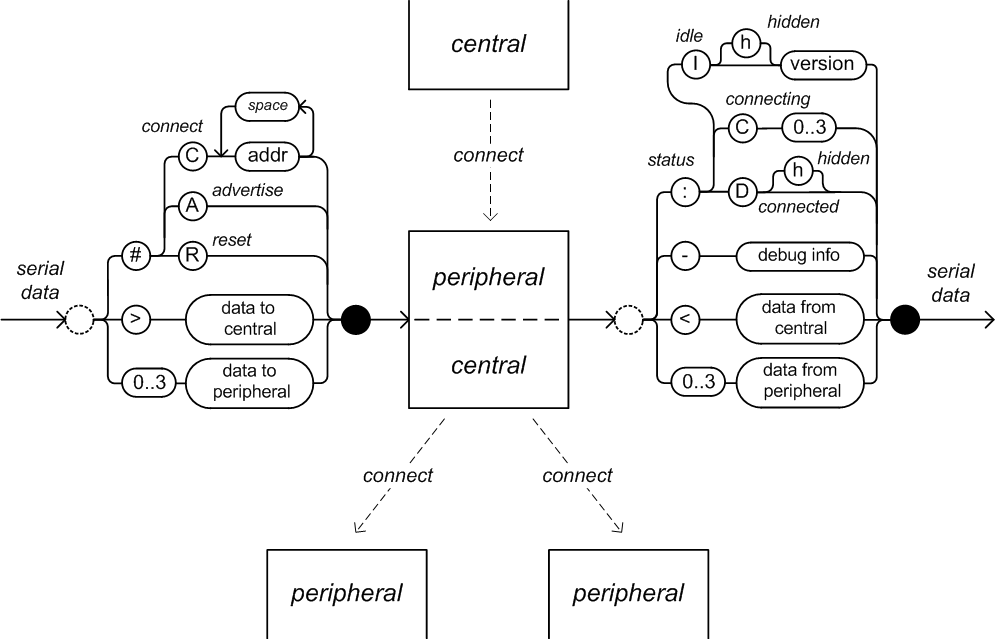
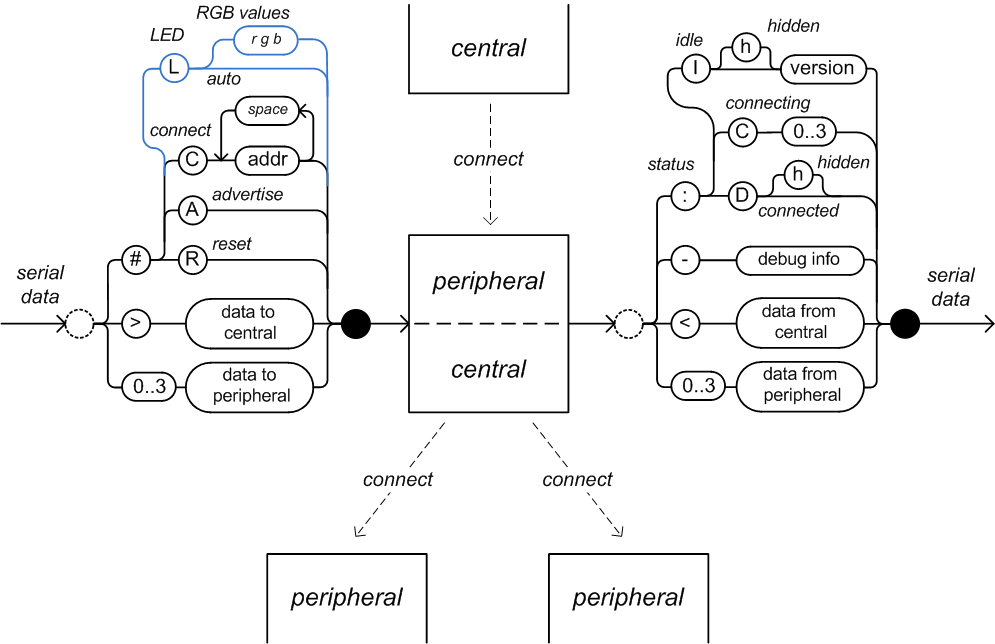
LED control API

diff --git a/python/ble_multi_adapter.py b/python/ble_multi_adapter.py
@@ -323,6 +323,14 @@ class MutliAdapter(AdapterConnection):
 		if data is not None:
 			self.on_peer_msg(idx, data)
 
+	def led_set_rgb(self, r, g, b):
+		"""Manually control the neo-pixel LED on board"""
+		self.submit_msg(b'#L%u %u %u' % (r, g, b))
+
+	def led_set_auto(self):
+		"""Switch to auto control of the neo-pixel LED on board"""
+		self.submit_msg(b'#L')
+
 	def on_idle(self, hidden, version):
 		pass
 
@@ -365,6 +373,7 @@ class SimpleAdapter(AdapterConnection):
 
 
 def find_port():
+	"""Find connected controller by USB device VID:PID"""
 	for p in list_ports.comports():
 		if p.vid == 0x303A and p.pid == 0x1001:
 			return p.device
@@ -372,6 +381,13 @@ def find_port():
 
 
 if __name__ == '__main__':
+	#
+	# The following example illustrates sending / receiving
+	# messages to / from connected central and controlling
+	# the on-board neo-pixel LED.
+	# One can use https://enspectr.github.io/ble-term/?echo
+	# to receive those messages and echo them back
+	#
 	class TestAdapter(MutliAdapter):
 		def __init__(self, port):
 			super().__init__(port)
@@ -391,14 +407,27 @@ if __name__ == '__main__':
 		sys.exit(-1)
 
 	sn, msg_interval = 0, .2
+	blink_interval, blink_duration = 5, .5
+	blink_rgb = (128, 32, 64)
 	with TestAdapter(port) as ad:
 		ad.reset()
-		next_ts = time.time() + msg_interval
+		next_msg_ts = time.time() + msg_interval
+		next_blink_ts = time.time() + msg_interval
+		blink_off_ts = None
 		while True:
 			ad.communicate()
 			ts = time.time()
-			if ts > next_ts:
+			if ts > next_msg_ts:
+				# send message to connected central
 				sn += 1
 				ad.send_data(b'message #%d' % sn)
-				next_ts = ts + msg_interval
-
+				next_msg_ts = ts + msg_interval
+			if ts > next_blink_ts:
+				# blink on
+				ad.led_set_rgb(*blink_rgb)
+				blink_off_ts  = ts + blink_duration
+				next_blink_ts = ts + blink_interval
+			elif blink_off_ts and ts > blink_off_ts:
+				# blink off
+				ad.led_set_auto()
+				blink_off_ts = None

diff --git a/ble_uart_mx/config/peripheral.h b/ble_uart_mx/config/peripheral.h
@@ -36,7 +36,7 @@
 // #define ESP32_USB_KEY
 //
 // Define if board has serially controlled RGB led (WS2812)
-// #define NEO_PIXEL_PIN 10
+#define NEO_PIXEL_PIN 10
 
 #ifdef NEO_PIXEL_PIN
 // Allow user to control LED
@@ -79,7 +79,7 @@
 // Though its more convenient while entering commands from terminal,
 // the '\1' '\0' message delimiters are more robust. Undefine the following
 // to use them by default.
-#define UART_END '\n'
+// #define UART_END '\n'
 #endif
 
 #define UART_BAUD_RATE 115200
@@ -111,17 +111,16 @@
 #define TX_BOOST
 
 // If defined creating connections to other peripherals will be disabled
-// #define PASSIVE_ONLY
+#define PASSIVE_ONLY
 
 #ifndef PASSIVE_ONLY
 // If AUTOCONNECT is defined it will connect on startup to the predefined set of peers.
 // The host commands will be disabled. One may use AUTOCONNECT with no target peers
 // to disable creating connections.
-#define AUTOCONNECT
+// #define AUTOCONNECT
 #ifdef AUTOCONNECT
 // Peer device address to connect to
-#define PEER_ADDR    "DC:54:75:EE:0C:95"
-//#define PEER_ADDR    "EC:DA:3B:BB:CE:02"
+#define PEER_ADDR    "EC:DA:3B:BB:CE:02"
 //#define PEER_ADDR1   "34:B7:DA:F6:44:B2"
 //#define PEER_ADDR2   "D8:3B:DA:13:0F:7A"
 //#define PEER_ADDR3   "34:B7:DA:FB:58:E2"
@@ -150,4 +149,4 @@
 #define MAX_BURST 1
 
 // If defined echo all data received back to sender (for testing)
-#define ECHO
+// #define ECHO

diff --git a/ble_uart_mx/user_config.h b/ble_uart_mx/user_config.h
@@ -1,8 +1,11 @@
 #pragma once
 
 // Here you can include the configuration of your choice
-#include "config/default.h"
+//#include "config/default.h"
 // .. for example
+
+// Peripheral device
+#include "config/peripheral.h"
 
 // The following pair of config files is meant to be used for
 // creating point to point link with automatic connect.

diff --git a/ble_uart_mx/config/default.h b/ble_uart_mx/config/default.h
@@ -37,6 +37,11 @@
 //
 // Define if board has serially controlled RGB led (WS2812)
 // #define NEO_PIXEL_PIN 10
+
+#ifdef NEO_PIXEL_PIN
+// Allow user to control LED
+#define LED_CONTROL_API
+#endif
 //
 // Connected LED parameters
 #ifndef NEO_PIXEL_PIN

diff --git a/ble_uart_mx/config/echo.h b/ble_uart_mx/config/echo.h
@@ -37,6 +37,11 @@
 //
 // Define if board has serially controlled RGB led (WS2812)
 // #define NEO_PIXEL_PIN 10
+
+#ifdef NEO_PIXEL_PIN
+// Allow user to control LED
+#define LED_CONTROL_API
+#endif
 //
 // Connected LED parameters
 #ifndef NEO_PIXEL_PIN

diff --git a/ble_uart_mx/config/simple_master.h b/ble_uart_mx/config/simple_master.h
@@ -37,6 +37,11 @@
 //
 // Define if board has serially controlled RGB led (WS2812)
 // #define NEO_PIXEL_PIN 10
+
+#ifdef NEO_PIXEL_PIN
+// Allow user to control LED
+#define LED_CONTROL_API
+#endif
 //
 // Connected LED parameters
 #ifndef NEO_PIXEL_PIN

diff --git a/ble_uart_mx/config/simple_slave.h b/ble_uart_mx/config/simple_slave.h
@@ -37,6 +37,11 @@
 //
 // Define if board has serially controlled RGB led (WS2812)
 // #define NEO_PIXEL_PIN 10
+
+#ifdef NEO_PIXEL_PIN
+// Allow user to control LED
+#define LED_CONTROL_API
+#endif
 //
 // Connected LED parameters
 #ifndef NEO_PIXEL_PIN

diff --git a/ble_uart_mx/config/uptime.h b/ble_uart_mx/config/uptime.h
@@ -37,6 +37,11 @@
 //
 // Define if board has serially controlled RGB led (WS2812)
 // #define NEO_PIXEL_PIN 10
+
+#ifdef NEO_PIXEL_PIN
+// Allow user to control LED
+#define LED_CONTROL_API
+#endif
 //
 // Connected LED parameters
 #ifndef NEO_PIXEL_PIN
